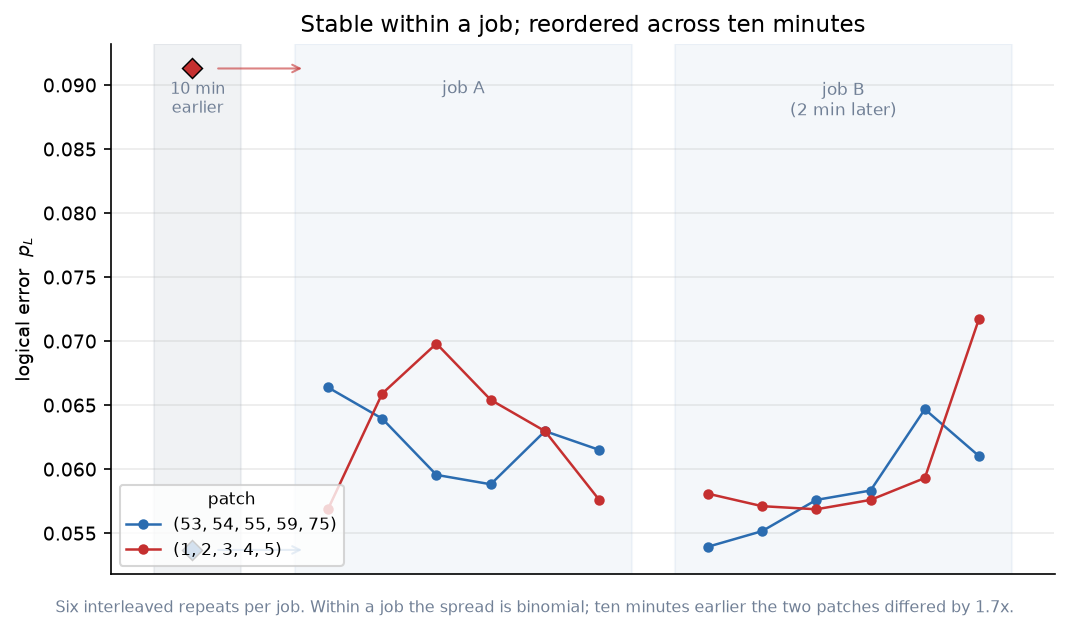
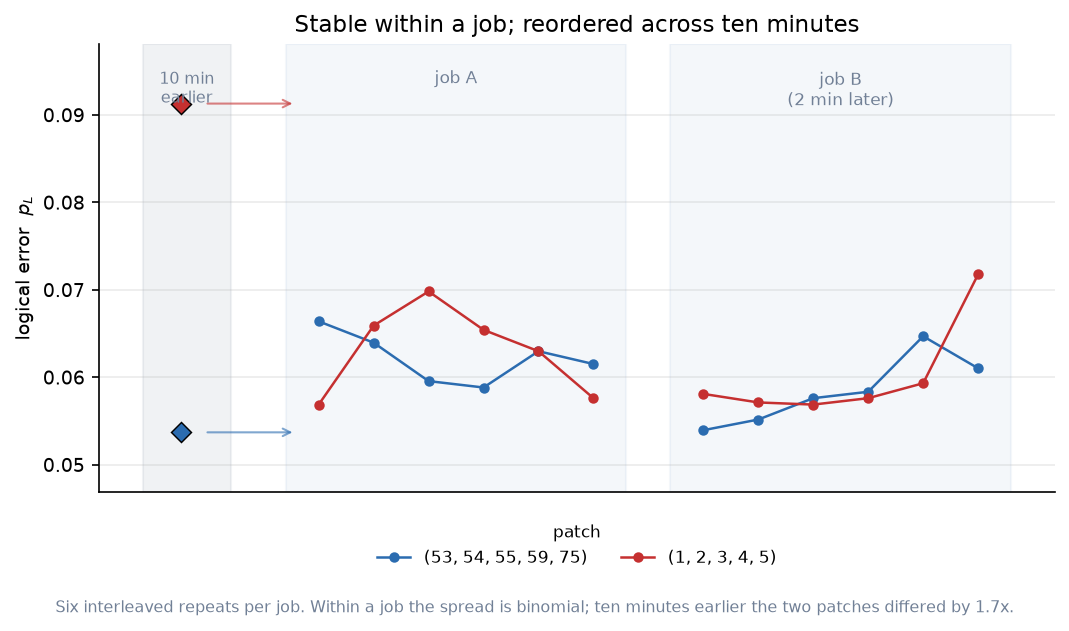
figures: probe failure, stability mechanism, break-even, E4 power comparison

diff --git a/make_figures.py b/make_figures.py
@@ -138,6 +138,10 @@ def fig2():
                         arrowprops=dict(arrowstyle="->", color=colours[pi],
                                         lw=1, alpha=0.6))
 
+    lo_all = min(min(l.get_ydata()) for l in ax.get_lines() if len(l.get_ydata()))
+    hi_all = max(max(l.get_ydata()) for l in ax.get_lines() if len(l.get_ydata()))
+    pad = (hi_all - lo_all) * 0.18
+    ax.set_ylim(lo_all - pad, hi_all + pad)
     ax.axvspan(-3.2, -1.6, color=GREY, alpha=0.10)
     ax.axvspan(-0.6, reps - 0.4, color=BLUE, alpha=0.05)
     ax.axvspan(xoff["job_b"] - 0.6, xoff["job_b"] + reps - 0.4,
@@ -154,7 +158,9 @@ def fig2():
     ax.set_ylabel("logical error  $p_L$")
     ax.set_title("Stable within a job; reordered across ten minutes",
                  fontsize=11)
-    ax.legend(fontsize=8, title="patch", title_fontsize=8, loc="lower left")
+    ax.legend(fontsize=8, title="patch", title_fontsize=8,
+              loc="upper center", bbox_to_anchor=(0.5, -0.04), ncol=2,
+              frameon=False)
     fig.text(0.5, -0.03, "Six interleaved repeats per job. Within a job the "
              "spread is binomial; ten minutes earlier the two patches "
              "differed by 1.7x.", ha="center", fontsize=7.5, color=GREY)
@@ -212,9 +218,12 @@ def fig3():
     ax.set_xticks(range(4)); ax.set_xticklabels(labels)
     ax.set_ylabel("suppression ratio  $S = p_{BARE}/p_L$")
     ax.set_yscale("log")
+    ax.set_yticks([0.05, 0.1, 0.2, 0.5, 1.0, 2.0, 3.0])
+    ax.set_yticklabels(["0.05", "0.1", "0.2", "0.5", "1", "2", "3"])
+    ax.minorticks_off()
     ax.set_title("Encoding helps the excited state and not the ground state",
                  fontsize=11)
-    ax.legend(fontsize=8, loc="center right")
+    ax.legend(fontsize=8, loc="upper left", frameon=False)
     fig.text(0.5, -0.04, "Three patches per window, duration-matched bare "
              "baseline. All twelve cells replicate by direction across two "
              "windows 33 hours apart.", ha="center", fontsize=7.5, color=GREY)
@@ -269,7 +278,8 @@ def fig4():
     ax.set_xlabel("active minus offline-decoded  ($p_L$ difference, "
                   "negative favours correction)")
     ax.set_title("The same effect, under-resolved and resolved", fontsize=11)
-    ax.legend(fontsize=8, loc="lower left")
+    ax.legend(fontsize=8, loc="upper center", bbox_to_anchor=(0.5, -0.18),
+              ncol=2, frameon=False)
     fig.text(0.5, -0.06, "The underpowered run could not exclude zero and "
              "one patch reversed sign. At five times the shots every "
              "interval excludes zero.", ha="center", fontsize=7.5, color=GREY)

diff --git a/patch_figs.py b/patch_figs.py
@@ -1,0 +1,36 @@
+import re
+src = open("make_figures.py", encoding="utf-8").read()
+
+# fig2: include the 10-min points in the y-limits, move legend clear
+src = src.replace(
+'''    ax.axvspan(-3.2, -1.6, color=GREY, alpha=0.10)''',
+'''    lo_all = min(min(l.get_ydata()) for l in ax.get_lines() if len(l.get_ydata()))
+    hi_all = max(max(l.get_ydata()) for l in ax.get_lines() if len(l.get_ydata()))
+    pad = (hi_all - lo_all) * 0.18
+    ax.set_ylim(lo_all - pad, hi_all + pad)
+    ax.axvspan(-3.2, -1.6, color=GREY, alpha=0.10)''')
+src = src.replace(
+'''    ax.legend(fontsize=8, title="patch", title_fontsize=8, loc="lower left")''',
+'''    ax.legend(fontsize=8, title="patch", title_fontsize=8,
+              loc="upper center", bbox_to_anchor=(0.5, -0.04), ncol=2,
+              frameon=False)''')
+
+# fig3: real log ticks, legend outside
+src = src.replace(
+'''    ax.set_yscale("log")''',
+'''    ax.set_yscale("log")
+    ax.set_yticks([0.05, 0.1, 0.2, 0.5, 1.0, 2.0, 3.0])
+    ax.set_yticklabels(["0.05", "0.1", "0.2", "0.5", "1", "2", "3"])
+    ax.minorticks_off()''')
+src = src.replace(
+'''    ax.legend(fontsize=8, loc="center right")''',
+'''    ax.legend(fontsize=8, loc="upper left", frameon=False)''')
+
+# fig4: legend outside the axes
+src = src.replace(
+'''    ax.legend(fontsize=8, loc="lower left")''',
+'''    ax.legend(fontsize=8, loc="upper center", bbox_to_anchor=(0.5, -0.18),
+              ncol=2, frameon=False)''')
+
+open("make_figures.py", "w", encoding="utf-8").write(src)
+print("patched")
